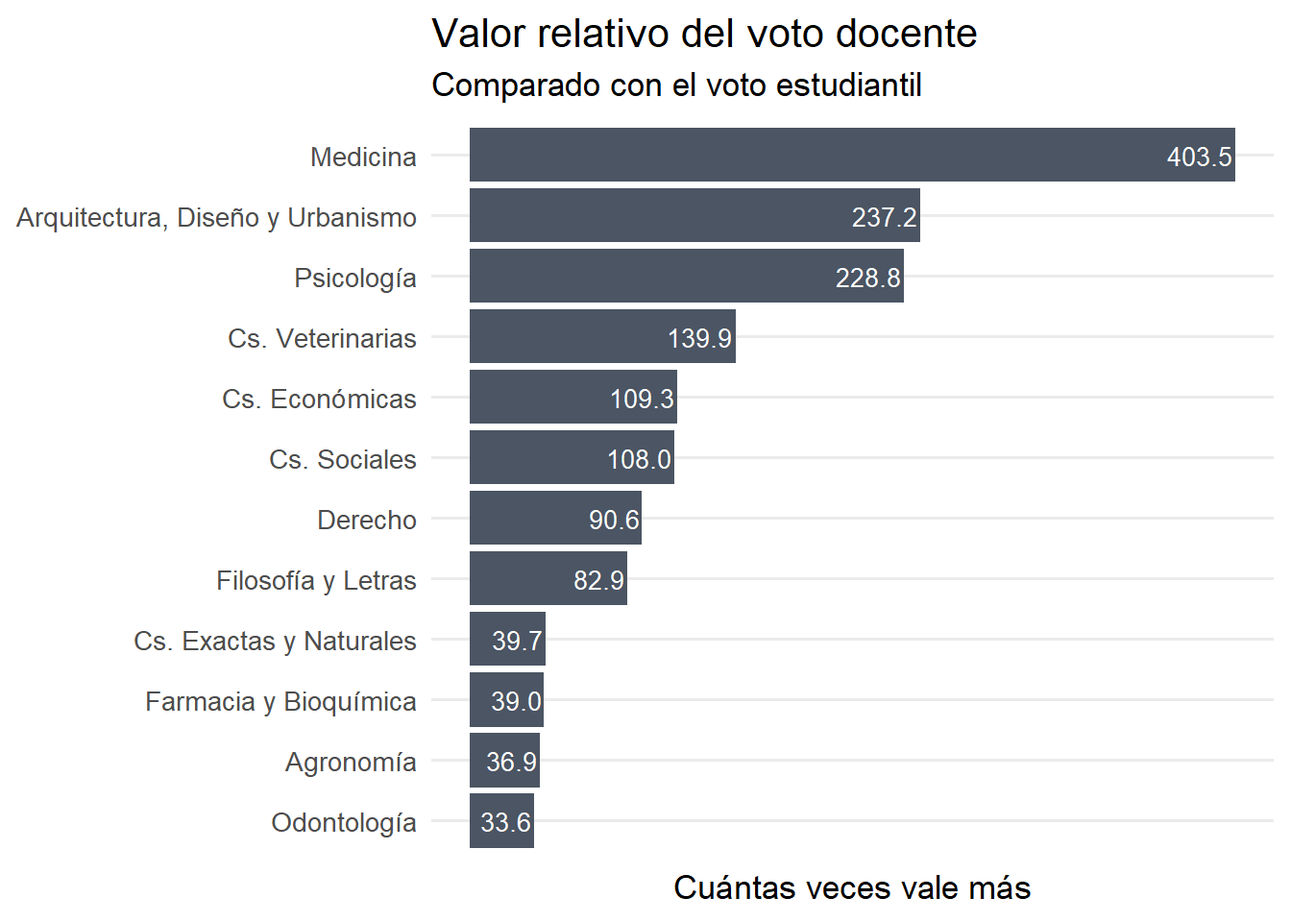
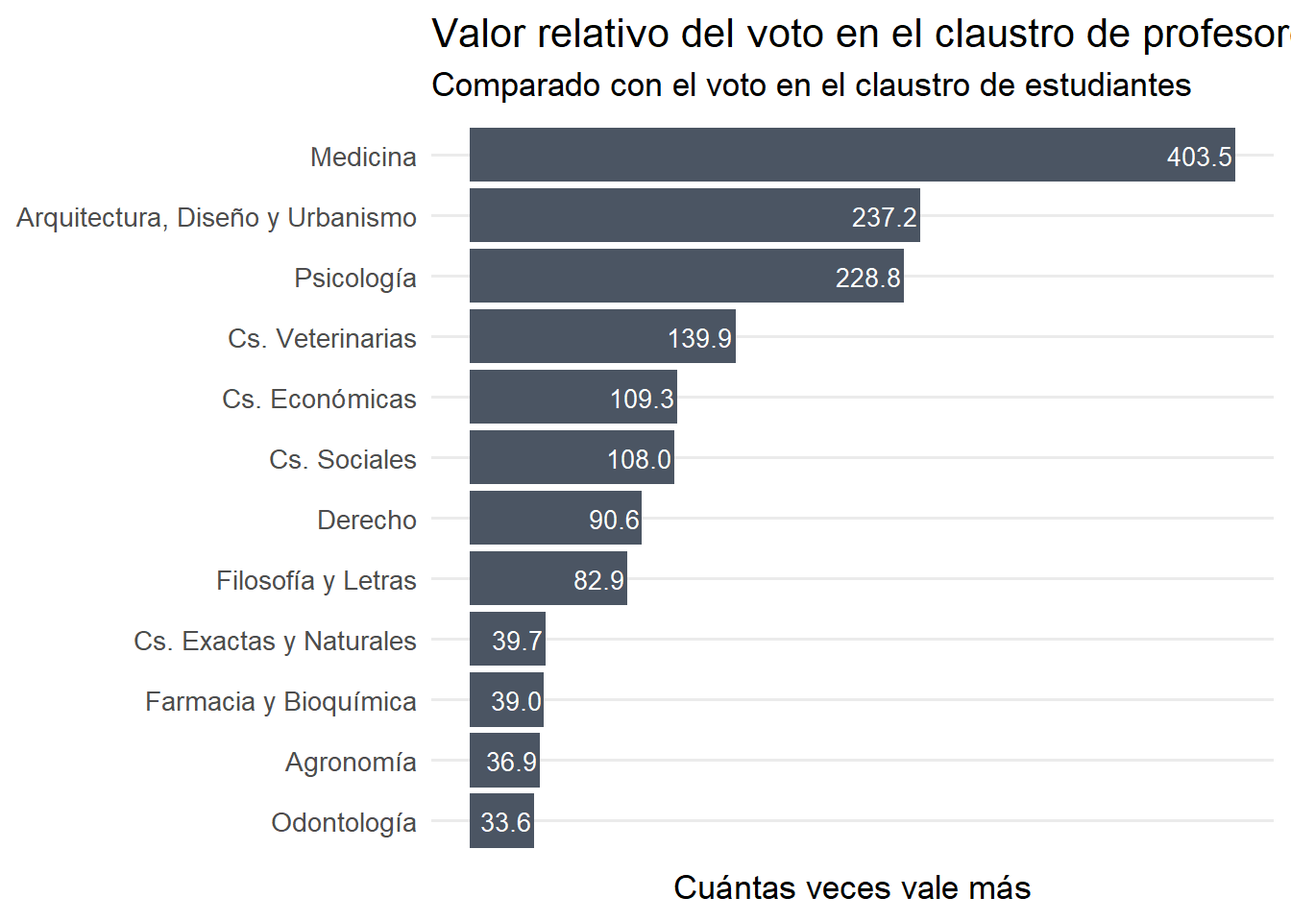
correccion de textos

Changed region(s): [[0.625, 0.0, 1.0, 0.125]]

diff --git a/docs/bitacora/20260116-uba-electoral/index.html b/docs/bitacora/20260116-uba-electoral/index.html
@@ -237,7 +237,7 @@ window.Quarto = {
 <section id="los-datos" class="level2">
 <h2 class="anchored" data-anchor-id="los-datos">Los datos</h2>
 <p>Este informe presenta un análisis exploratorio de los resultados electorales en las distintas facultades de la Universidad de Buenos Aires sucedidos en los últimos 15 años.</p>
-<p>Los datos, inaccesibles en la práctica, fueron obtenidos mediante solicitudes de acceso a la información pública que disponibilizaron una serie de impresiones escaneadas. Obligados por el estado de las fuentes, cada facultad presenta distintos niveles de cobertura sobre sus propios comicios. Para las últimas 4 elecciones se cubrieron los huecos con información disponible en internet de libre acceso.</p>
+<p>Los datos, inaccesibles en la práctica, fueron obtenidos mediante solicitudes de acceso a la información pública que disponibilizaron una serie de impresiones escaneadas. Debido al estado de las fuentes, cada facultad presenta distintos niveles de cobertura sobre sus propios comicios. Para las últimas 4 elecciones se cubrieron los huecos con información disponible en los pocos medios que prestaron cobertura y con las redes sociales de distintas agrupaciones universitarias.</p>
 <div class="uba-cards">
   <div class="card">
     <div class="card-number">13</div>
@@ -251,11 +251,15 @@ window.Quarto = {
     <div class="card-number">418</div>
     <div class="card-label">Listas</div>
   </div>
+  <div class="card">
+    <div class="card-number">1.143043\times 10^{6}</div>
+    <div class="card-label">Votos</div>
+  </div>
 </div>
 </section>
 <section id="quiénes-votan" class="level2">
 <h2 class="anchored" data-anchor-id="quiénes-votan">¿Quiénes votan?</h2>
-<p>Todas las facultades votan, pero no en todas vota la misma cantidad de gente. Un dato que no por conocido no deja de ser interesante. Para el claustro de estudiantes, clara predominancia de la facultad de Medicina.</p>
+<p>Todas las facultades votan, pero no en todas vota la misma cantidad de gente. Un dato que no por conocido deja de ser interesante. Para el claustro de estudiantes existe una clara predominancia de la facultad de Medicina.</p>
 <div class="cell">
 <div class="cell-output-display">
 <div>
@@ -265,7 +269,7 @@ window.Quarto = {
 </div>
 </div>
 </div>
-<p>En el claustro de graduados, aparecen Económicas, Sociales y Derecho acompañando a Medicina en el podio.</p>
+<p>En el claustro de graduados, aparecen Económicas, Sociales y Derecho acompañando a Medicina entre los primeros puestos.</p>
 <div class="cell">
 <div class="cell-output-display">
 <div>
@@ -275,7 +279,7 @@ window.Quarto = {
 </div>
 </div>
 </div>
-<p>El claustro de profesores vuelve a presentar un cambio. Económicas obtiene el primer lugar y aparecen las facultades de Ingeniería y Exactas que no presentaban números considerables en los otros dos claustros. Medicina relegado a un 5 puesto.</p>
+<p>El claustro de profesores muestra un cambio llamativo. Económicas obtiene el primer lugar y aparecen las facultades de Ingeniería y Exactas que no presentaban números considerables en los otros dos claustros. Medicina relegado a un 5° puesto.</p>
 <div class="cell">
 <div class="cell-output-display">
 <div>
@@ -291,11 +295,11 @@ window.Quarto = {
 <p>La cantidad de listas es una buena proxy de cuán disputada está una elección. Algunas facultades concentran la competencia; en otras, directamente no hay demasiado para elegir.</p>
 <div class="cell">
 <div class="cell-output-display">
-<div class="plotly html-widget html-fill-item" id="htmlwidget-63e4331c7a4d4183028e" style="width:100%;height:464px;"></div>
-<script type="application/json" data-for="htmlwidget-63e4331c7a4d4183028e">{"x":{"data":[{"x":[2015,2017,2019,2022,2024],"y":[5,5,4,4,4],"text":["Facultad: Agronomía<br>Año: 2015<br>Listas: 5","Facultad: Agronomía<br>Año: 2017<br>Listas: 5","Facultad: Agronomía<br>Año: 2019<br>Listas: 4","Facultad: Agronomía<br>Año: 2022<br>Listas: 4","Facultad: Agronomía<br>Año: 2024<br>Listas: 4"],"type":"scatter","mode":"lines+markers","line":{"width":1.5118110236220474,"color":"rgba(248,118,109,0.7)","dash":"solid"},"hoveron":"points","name":"Agronomía","legendgroup":"Agronomía","showlegend":true,"xaxis":"x","yaxis":"y","hoverinfo":"text","marker":{"autocolorscale":false,"color":"rgba(248,118,109,1)","opacity":1,"size":5.6692913385826778,"symbol":"circle","line":{"width":1.8897637795275593,"color":"rgba(248,118,109,1)"}},"frame":null},{"x":[2011,2013,2015,2017,2019,2022,2024],"y":[6,9,7,7,6,8,6],"text":["Facultad: Arquitectura, Diseño y Urbanismo<br>Año: 2011<br>Listas: 6","Facultad: Arquitectura, Diseño y Urbanismo<br>Año: 2013<br>Listas: 9","Facultad: Arquitectura, Diseño y Urbanismo<br>Año: 2015<br>Listas: 7","Facultad: Arquitectura, Diseño y Urbanismo<br>Año: 2017<br>Listas: 7","Facultad: Arquitectura, Diseño y Urbanismo<br>Año: 2019<br>Listas: 6","Facultad: Arquitectura, Diseño y Urbanismo<br>Año: 2022<br>Listas: 8","Facultad: Arquitectura, Diseño y Urbanismo<br>Año: 2024<br>Listas: 6"],"type":"scatter","mode":"lines+markers","line":{"width":1.5118110236220474,"color":"rgba(225,138,0,0.7)","dash":"solid"},"hoveron":"points","name":"Arquitectura, Diseño y Urbanismo","legendgroup":"Arquitectura, Diseño y Urbanismo","showlegend":true,"xaxis":"x","yaxis":"y","hoverinfo":"text","marker":{"autocolorscale":false,"color":"rgba(225,138,0,1)","opacity":1,"size":5.6692913385826778,"symbol":"circle","line":{"width":1.8897637795275593,"color":"rgba(225,138,0,1)"}},"frame":null},{"x":[2011,2013,2015,2017,2019,2022,2024],"y":[13,15,15,14,15,16,16],"text":["Facultad: Cs. Económicas<br>Año: 2011<br>Listas: 13","Facultad: Cs. Económicas<br>Año: 2013<br>Listas: 15","Facultad: Cs. Económicas<br>Año: 2015<br>Listas: 15","Facultad: Cs. Económicas<br>Año: 2017<br>Listas: 14","Facultad: Cs. Económicas<br>Año: 2019<br>Listas: 15","Facultad: Cs. Económicas<br>Año: 2022<br>Listas: 16","Facultad: Cs. Económicas<br>Año: 2024<br>Listas: 16"],"type":"scatter","mode":"lines+markers","line":{"width":1.5118110236220474,"color":"rgba(190,156,0,0.7)","dash":"solid"},"hoveron":"points","name":"Cs. Económicas","legendgroup":"Cs. Económicas","showlegend":true,"xaxis":"x","yaxis":"y","hoverinfo":"text","marker":{"autocolorscale":false,"color":"rgba(190,156,0,1)","opacity":1,"size":5.6692913385826778,"symbol":"circle","line":{"width":1.8897637795275593,"color":"rgba(190,156,0,1)"}},"frame":null},{"x":[2015,2017,2019,2022,2024],"y":[6,5,5,4,9],"text":["Facultad: Cs. Exactas y Naturales<br>Año: 2015<br>Listas: 6","Facultad: Cs. Exactas y Naturales<br>Año: 2017<br>Listas: 5","Facultad: Cs. Exactas y Naturales<br>Año: 2019<br>Listas: 5","Facultad: Cs. Exactas y Naturales<br>Año: 2022<br>Listas: 4","Facultad: Cs. Exactas y Naturales<br>Año: 2024<br>Listas: 9"],"type":"scatter","mode":"lines+markers","line":{"width":1.5118110236220474,"color":"rgba(140,171,0,0.7)","dash":"solid"},"hoveron":"points","name":"Cs. Exactas y Naturales","legendgroup":"Cs. Exactas y Naturales","showlegend":true,"xaxis":"x","yaxis":"y","hoverinfo":"text","marker":{"autocolorscale":false,"color":"rgba(140,171,0,1)","opacity":1,"size":5.6692913385826778,"symbol":"circle","line":{"width":1.8897637795275593,"color":"rgba(140,171,0,1)"}},"frame":null},{"x":[2011,2013,2015,2017,2019,2022,2024],"y":[11,9,7,7,7,6,6],"text":["Facultad: Cs. Sociales<br>Año: 2011<br>Listas: 11","Facultad: Cs. Sociales<br>Año: 2013<br>Listas: 9","Facultad: Cs. Sociales<br>Año: 2015<br>Listas: 7","Facultad: Cs. Sociales<br>Año: 2017<br>Listas: 7","Facultad: Cs. Sociales<br>Año: 2019<br>Listas: 7","Facultad: Cs. Sociales<br>Año: 2022<br>Listas: 6","Facultad: Cs. Sociales<br>Año: 2024<br>Listas: 6"],"type":"scatter","mode":"lines+markers","line":{"width":1.5118110236220474,"color":"rgba(36,183,0,0.7)","dash":"solid"},"hoveron":"points","name":"Cs. Sociales","legendgroup":"Cs. Sociales","showlegend":true,"xaxis":"x","yaxis":"y","hoverinfo":"text","marker":{"autocolorscale":false,"color":"rgba(36,183,0,1)","opacity":1,"size":5.6692913385826778,"symbol":"circle","line":{"width":1.8897637795275593,"color":"rgba(36,183,0,1)"}},"frame":null},{"x":[2011,2013,2015,2017,2019,2022,2024],"y":[3,3,3,6,5,6,4],"text":["Facultad: Cs. Veterinarias<br>Año: 2011<br>Listas: 3","Facultad: Cs. Veterinarias<br>Año: 2013<br>Listas: 3","Facultad: Cs. Veterinarias<br>Año: 2015<br>Listas: 3","Facultad: Cs. Veterinarias<br>Año: 2017<br>Listas: 6","Facultad: Cs. Veterinarias<br>Año: 2019<br>Listas: 5","Facultad: Cs. Veterinarias<br>Año: 2022<br>Listas: 6","Facultad: Cs. Veterinarias<br>Año: 2024<br>Listas: 4"],"type":"scatter","mode":"lines+markers","line":{"width":1.5118110236220474,"color":"rgba(0,190,112,0.7)","dash":"solid"},"hoveron":"points","name":"Cs. Veterinarias","legendgroup":"Cs. Veterinarias","showlegend":true,"xaxis":"x","yaxis":"y","hoverinfo":"text","marker":{"autocolorscale":false,"color":"rgba(0,190,112,1)","opacity":1,"size":5.6692913385826778,"symbol":"circle","line":{"width":1.8897637795275593,"color":"rgba(0,190,112,1)"}},"frame":null},{"x":[2011,2013,2015,2017,2019,2022,2024],"y":[9,7,7,7,8,8,7],"text":["Facultad: Derecho<br>Año: 2011<br>Listas: 9","Facultad: Derecho<br>Año: 2013<br>Listas: 7","Facultad: Derecho<br>Año: 2015<br>Listas: 7","Facultad: Derecho<br>Año: 2017<br>Listas: 7","Facultad: Derecho<br>Año: 2019<br>Listas: 8","Facultad: Derecho<br>Año: 2022<br>Listas: 8","Facultad: Derecho<br>Año: 2024<br>Listas: 7"],"type":"scatter","mode":"lines+markers","line":{"width":1.5118110236220474,"color":"rgba(0,193,171,0.7)","dash":"solid"},"hoveron":"points","name":"Derecho","legendgroup":"Derecho","showlegend":true,"xaxis":"x","yaxis":"y","hoverinfo":"text","marker":{"autocolorscale":false,"color":"rgba(0,193,171,1)","opacity":1,"size":5.6692913385826778,"symbol":"circle","line":{"width":1.8897637795275593,"color":"rgba(0,193,171,1)"}},"frame":null},{"x":[2011,2013,2015,2017,2019,2022,2024],"y":[3,5,6,3,5,4,4],"text":["Facultad: Farmacia y Bioquímica<br>Año: 2011<br>Listas: 3","Facultad: Farmacia y Bioquímica<br>Año: 2013<br>Listas: 5","Facultad: Farmacia y Bioquímica<br>Año: 2015<br>Listas: 6","Facultad: Farmacia y Bioquímica<br>Año: 2017<br>Listas: 3","Facultad: Farmacia y Bioquímica<br>Año: 2019<br>Listas: 5","Facultad: Farmacia y Bioquímica<br>Año: 2022<br>Listas: 4","Facultad: Farmacia y Bioquímica<br>Año: 2024<br>Listas: 4"],"type":"scatter","mode":"lines+markers","line":{"width":1.5118110236220474,"color":"rgba(0,187,218,0.7)","dash":"solid"},"hoveron":"points","name":"Farmacia y Bioquímica","legendgroup":"Farmacia y Bioquímica","showlegend":true,"xaxis":"x","yaxis":"y","hoverinfo":"text","marker":{"autocolorscale":false,"color":"rgba(0,187,218,1)","opacity":1,"size":5.6692913385826778,"symbol":"circle","line":{"width":1.8897637795275593,"color":"rgba(0,187,218,1)"}},"frame":null},{"x":[2011,2015,2017,2019,2022,2024],"y":[8,8,9,7,8,7],"text":["Facultad: Filosofía y Letras<br>Año: 2011<br>Listas: 8","Facultad: Filosofía y Letras<br>Año: 2015<br>Listas: 8","Facultad: Filosofía y Letras<br>Año: 2017<br>Listas: 9","Facultad: Filosofía y Letras<br>Año: 2019<br>Listas: 7","Facultad: Filosofía y Letras<br>Año: 2022<br>Listas: 8","Facultad: Filosofía y Letras<br>Año: 2024<br>Listas: 7"],"type":"scatter","mode":"lines+markers","line":{"width":1.5118110236220474,"color":"rgba(0,172,252,0.7)","dash":"solid"},"hoveron":"points","name":"Filosofía y Letras","legendgroup":"Filosofía y Letras","showlegend":true,"xaxis":"x","yaxis":"y","hoverinfo":"text","marker":{"autocolorscale":false,"color":"rgba(0,172,252,1)","opacity":1,"size":5.6692913385826778,"symbol":"circle","line":{"width":1.8897637795275593,"color":"rgba(0,172,252,1)"}},"frame":null},{"x":[2015,2017,2019,2022,2024],"y":[6,7,7,7,6],"text":["Facultad: Ingeniería<br>Año: 2015<br>Listas: 6","Facultad: Ingeniería<br>Año: 2017<br>Listas: 7","Facultad: Ingeniería<br>Año: 2019<br>Listas: 7","Facultad: Ingeniería<br>Año: 2022<br>Listas: 7","Facultad: Ingeniería<br>Año: 2024<br>Listas: 6"],"type":"scatter","mode":"lines+markers","line":{"width":1.5118110236220474,"color":"rgba(139,147,255,0.7)","dash":"solid"},"hoveron":"points","name":"Ingeniería","legendgroup":"Ingeniería","showlegend":true,"xaxis":"x","yaxis":"y","hoverinfo":"text","marker":{"autocolorscale":false,"color":"rgba(139,147,255,1)","opacity":1,"size":5.6692913385826778,"symbol":"circle","line":{"width":1.8897637795275593,"color":"rgba(139,147,255,1)"}},"frame":null},{"x":[2015,2017,2019,2022,2024],"y":[8,8,7,8,8],"text":["Facultad: Medicina<br>Año: 2015<br>Listas: 8","Facultad: Medicina<br>Año: 2017<br>Listas: 8","Facultad: Medicina<br>Año: 2019<br>Listas: 7","Facultad: Medicina<br>Año: 2022<br>Listas: 8","Facultad: Medicina<br>Año: 2024<br>Listas: 8"],"type":"scatter","mode":"lines+markers","line":{"width":1.5118110236220474,"color":"rgba(213,117,254,0.7)","dash":"solid"},"hoveron":"points","name":"Medicina","legendgroup":"Medicina","showlegend":true,"xaxis":"x","yaxis":"y","hoverinfo":"text","marker":{"autocolorscale":false,"color":"rgba(213,117,254,1)","opacity":1,"size":5.6692913385826778,"symbol":"circle","line":{"width":1.8897637795275593,"color":"rgba(213,117,254,1)"}},"frame":null},{"x":[2011,2013,2015,2017,2019,2022,2024],"y":[3,5,4,4,2,2,2],"text":["Facultad: Odontología<br>Año: 2011<br>Listas: 3","Facultad: Odontología<br>Año: 2013<br>Listas: 5","Facultad: Odontología<br>Año: 2015<br>Listas: 4","Facultad: Odontología<br>Año: 2017<br>Listas: 4","Facultad: Odontología<br>Año: 2019<br>Listas: 2","Facultad: Odontología<br>Año: 2022<br>Listas: 2","Facultad: Odontología<br>Año: 2024<br>Listas: 2"],"type":"scatter","mode":"lines+markers","line":{"width":1.5118110236220474,"color":"rgba(249,98,221,0.7)","dash":"solid"},"hoveron":"points","name":"Odontología","legendgroup":"Odontología","showlegend":true,"xaxis":"x","yaxis":"y","hoverinfo":"text","marker":{"autocolorscale":false,"color":"rgba(249,98,221,1)","opacity":1,"size":5.6692913385826778,"symbol":"circle","line":{"width":1.8897637795275593,"color":"rgba(249,98,221,1)"}},"frame":null},{"x":[2011,2013,2015,2017,2019,2022,2024],"y":[9,6,6,7,6,6,8],"text":["Facultad: Psicología<br>Año: 2011<br>Listas: 9","Facultad: Psicología<br>Año: 2013<br>Listas: 6","Facultad: Psicología<br>Año: 2015<br>Listas: 6","Facultad: Psicología<br>Año: 2017<br>Listas: 7","Facultad: Psicología<br>Año: 2019<br>Listas: 6","Facultad: Psicología<br>Año: 2022<br>Listas: 6","Facultad: Psicología<br>Año: 2024<br>Listas: 8"],"type":"scatter","mode":"lines+markers","line":{"width":1.5118110236220474,"color":"rgba(255,101,172,0.7)","dash":"solid"},"hoveron":"points","name":"Psicología","legendgroup":"Psicología","showlegend":true,"xaxis":"x","yaxis":"y","hoverinfo":"text","marker":{"autocolorscale":false,"color":"rgba(255,101,172,1)","opacity":1,"size":5.6692913385826778,"symbol":"circle","line":{"width":1.8897637795275593,"color":"rgba(255,101,172,1)"}},"frame":null}],"layout":{"margin":{"t":80,"r":8.6342880863428828,"b":30.220008302200085,"l":44.034869240348698},"font":{"color":"rgba(0,0,0,1)","family":"","size":17.268576172685762},"xaxis":{"domain":[0,1],"automargin":true,"type":"linear","autorange":false,"range":[2010.3499999999999,2024.6500000000001],"tickmode":"linear","ticktext":["2015","2020"],"tickvals":[2015,2020],"categoryorder":"array","categoryarray":["2015","2020"],"nticks":null,"ticks":"","tickcolor":null,"ticklen":4.3171440431714405,"tickwidth":0,"showticklabels":true,"tickfont":{"color":"rgba(77,77,77,1)","family":"","size":13.814860938148611},"tickangle":-0,"showline":false,"linecolor":null,"linewidth":0,"showgrid":true,"gridcolor":"rgba(235,235,235,1)","gridwidth":0.78493528057662576,"zeroline":false,"anchor":"y","title":{"text":"","font":{"color":"rgba(0,0,0,1)","family":"","size":17.268576172685762}},"hoverformat":".2f","dtick":1},"yaxis":{"domain":[0,1],"automargin":true,"type":"linear","autorange":false,"range":[0,17],"tickmode":"linear","ticktext":["4","8","12","16"],"tickvals":[4,8,12,16],"categoryorder":"array","categoryarray":["4","8","12","16"],"nticks":null,"ticks":"","tickcolor":null,"ticklen":4.3171440431714414,"tickwidth":0,"showticklabels":true,"tickfont":{"color":"rgba(77,77,77,1)","family":"","size":13.814860938148611},"tickangle":-0,"showline":false,"linecolor":null,"linewidth":0,"showgrid":true,"gridcolor":"rgba(235,235,235,1)","gridwidth":0.78493528057662576,"zeroline":false,"anchor":"x","title":{"text":"Cantidad de listas","font":{"color":"rgba(0,0,0,1)","family":"","size":17.268576172685762}},"hoverformat":".2f","dtick":1},"shapes":[{"type":"rect","fillcolor":null,"line":{"color":null,"width":0,"linetype":[]},"yref":"paper","xref":"paper","layer":"below","x0":0,"x1":1,"y0":0,"y1":1}],"showlegend":false,"legend":{"bgcolor":null,"bordercolor":null,"borderwidth":0,"font":{"color":"rgba(0,0,0,1)","family":"","size":13.814860938148611}},"hovermode":"closest","barmode":"relative","title":{"text":"Cantidad de listas por año por facultad<br><sup>Claustro de estudiantes<\/sup>"}},"config":{"doubleClick":"reset","modeBarButtonsToAdd":["hoverclosest","hovercompare"],"showSendToCloud":false,"displayModeBar":true,"displaylogo":false,"modeBarButtonsToRemove":["zoom2d","pan2d","select2d","lasso2d","zoomIn2d","zoomOut2d","autoScale2d","resetScale2d"]},"source":"A","attrs":{"86f86c477152":{"x":{},"y":{},"colour":{},"text":{},"type":"scatter"},"86f828bf187b":{"x":{},"y":{},"colour":{},"text":{}}},"cur_data":"86f86c477152","visdat":{"86f86c477152":["function (y) ","x"],"86f828bf187b":["function (y) ","x"]},"highlight":{"on":"plotly_click","persistent":false,"dynamic":false,"selectize":false,"opacityDim":0.20000000000000001,"selected":{"opacity":1},"debounce":0},"shinyEvents":["plotly_hover","plotly_click","plotly_selected","plotly_relayout","plotly_brushed","plotly_brushing","plotly_clickannotation","plotly_doubleclick","plotly_deselect","plotly_afterplot","plotly_sunburstclick"],"base_url":"https://plot.ly"},"evals":[],"jsHooks":[]}</script>
+<div class="plotly html-widget html-fill-item" id="htmlwidget-9891effced8ea0a29928" style="width:100%;height:464px;"></div>
+<script type="application/json" data-for="htmlwidget-9891effced8ea0a29928">{"x":{"data":[{"x":[2015,2017,2019,2022,2024],"y":[5,5,4,4,4],"text":["Facultad: Agronomía<br>Año: 2015<br>Listas: 5","Facultad: Agronomía<br>Año: 2017<br>Listas: 5","Facultad: Agronomía<br>Año: 2019<br>Listas: 4","Facultad: Agronomía<br>Año: 2022<br>Listas: 4","Facultad: Agronomía<br>Año: 2024<br>Listas: 4"],"type":"scatter","mode":"lines+markers","line":{"width":1.5118110236220474,"color":"rgba(248,118,109,0.6)","dash":"solid"},"hoveron":"points","name":"Agronomía","legendgroup":"Agronomía","showlegend":true,"xaxis":"x","yaxis":"y","hoverinfo":"text","marker":{"autocolorscale":false,"color":"rgba(248,118,109,1)","opacity":1,"size":5.6692913385826778,"symbol":"circle","line":{"width":1.8897637795275593,"color":"rgba(248,118,109,1)"}},"frame":null},{"x":[2011,2013,2015,2017,2019,2022,2024],"y":[6,9,7,7,6,8,6],"text":["Facultad: Arquitectura, Diseño y Urbanismo<br>Año: 2011<br>Listas: 6","Facultad: Arquitectura, Diseño y Urbanismo<br>Año: 2013<br>Listas: 9","Facultad: Arquitectura, Diseño y Urbanismo<br>Año: 2015<br>Listas: 7","Facultad: Arquitectura, Diseño y Urbanismo<br>Año: 2017<br>Listas: 7","Facultad: Arquitectura, Diseño y Urbanismo<br>Año: 2019<br>Listas: 6","Facultad: Arquitectura, Diseño y Urbanismo<br>Año: 2022<br>Listas: 8","Facultad: Arquitectura, Diseño y Urbanismo<br>Año: 2024<br>Listas: 6"],"type":"scatter","mode":"lines+markers","line":{"width":1.5118110236220474,"color":"rgba(225,138,0,0.6)","dash":"solid"},"hoveron":"points","name":"Arquitectura, Diseño y Urbanismo","legendgroup":"Arquitectura, Diseño y Urbanismo","showlegend":true,"xaxis":"x","yaxis":"y","hoverinfo":"text","marker":{"autocolorscale":false,"color":"rgba(225,138,0,1)","opacity":1,"size":5.6692913385826778,"symbol":"circle","line":{"width":1.8897637795275593,"color":"rgba(225,138,0,1)"}},"frame":null},{"x":[2011,2013,2015,2017,2019,2022,2024],"y":[13,15,15,14,15,16,16],"text":["Facultad: Cs. Económicas<br>Año: 2011<br>Listas: 13","Facultad: Cs. Económicas<br>Año: 2013<br>Listas: 15","Facultad: Cs. Económicas<br>Año: 2015<br>Listas: 15","Facultad: Cs. Económicas<br>Año: 2017<br>Listas: 14","Facultad: Cs. Económicas<br>Año: 2019<br>Listas: 15","Facultad: Cs. Económicas<br>Año: 2022<br>Listas: 16","Facultad: Cs. Económicas<br>Año: 2024<br>Listas: 16"],"type":"scatter","mode":"lines+markers","line":{"width":1.5118110236220474,"color":"rgba(190,156,0,0.6)","dash":"solid"},"hoveron":"points","name":"Cs. Económicas","legendgroup":"Cs. Económicas","showlegend":true,"xaxis":"x","yaxis":"y","hoverinfo":"text","marker":{"autocolorscale":false,"color":"rgba(190,156,0,1)","opacity":1,"size":5.6692913385826778,"symbol":"circle","line":{"width":1.8897637795275593,"color":"rgba(190,156,0,1)"}},"frame":null},{"x":[2015,2017,2019,2022,2024],"y":[6,5,5,4,9],"text":["Facultad: Cs. Exactas y Naturales<br>Año: 2015<br>Listas: 6","Facultad: Cs. Exactas y Naturales<br>Año: 2017<br>Listas: 5","Facultad: Cs. Exactas y Naturales<br>Año: 2019<br>Listas: 5","Facultad: Cs. Exactas y Naturales<br>Año: 2022<br>Listas: 4","Facultad: Cs. Exactas y Naturales<br>Año: 2024<br>Listas: 9"],"type":"scatter","mode":"lines+markers","line":{"width":1.5118110236220474,"color":"rgba(140,171,0,0.6)","dash":"solid"},"hoveron":"points","name":"Cs. Exactas y Naturales","legendgroup":"Cs. Exactas y Naturales","showlegend":true,"xaxis":"x","yaxis":"y","hoverinfo":"text","marker":{"autocolorscale":false,"color":"rgba(140,171,0,1)","opacity":1,"size":5.6692913385826778,"symbol":"circle","line":{"width":1.8897637795275593,"color":"rgba(140,171,0,1)"}},"frame":null},{"x":[2011,2013,2015,2017,2019,2022,2024],"y":[11,9,7,7,7,6,6],"text":["Facultad: Cs. Sociales<br>Año: 2011<br>Listas: 11","Facultad: Cs. Sociales<br>Año: 2013<br>Listas: 9","Facultad: Cs. Sociales<br>Año: 2015<br>Listas: 7","Facultad: Cs. Sociales<br>Año: 2017<br>Listas: 7","Facultad: Cs. Sociales<br>Año: 2019<br>Listas: 7","Facultad: Cs. Sociales<br>Año: 2022<br>Listas: 6","Facultad: Cs. Sociales<br>Año: 2024<br>Listas: 6"],"type":"scatter","mode":"lines+markers","line":{"width":1.5118110236220474,"color":"rgba(36,183,0,0.6)","dash":"solid"},"hoveron":"points","name":"Cs. Sociales","legendgroup":"Cs. Sociales","showlegend":true,"xaxis":"x","yaxis":"y","hoverinfo":"text","marker":{"autocolorscale":false,"color":"rgba(36,183,0,1)","opacity":1,"size":5.6692913385826778,"symbol":"circle","line":{"width":1.8897637795275593,"color":"rgba(36,183,0,1)"}},"frame":null},{"x":[2011,2013,2015,2017,2019,2022,2024],"y":[3,3,3,6,5,6,4],"text":["Facultad: Cs. Veterinarias<br>Año: 2011<br>Listas: 3","Facultad: Cs. Veterinarias<br>Año: 2013<br>Listas: 3","Facultad: Cs. Veterinarias<br>Año: 2015<br>Listas: 3","Facultad: Cs. Veterinarias<br>Año: 2017<br>Listas: 6","Facultad: Cs. Veterinarias<br>Año: 2019<br>Listas: 5","Facultad: Cs. Veterinarias<br>Año: 2022<br>Listas: 6","Facultad: Cs. Veterinarias<br>Año: 2024<br>Listas: 4"],"type":"scatter","mode":"lines+markers","line":{"width":1.5118110236220474,"color":"rgba(0,190,112,0.6)","dash":"solid"},"hoveron":"points","name":"Cs. Veterinarias","legendgroup":"Cs. Veterinarias","showlegend":true,"xaxis":"x","yaxis":"y","hoverinfo":"text","marker":{"autocolorscale":false,"color":"rgba(0,190,112,1)","opacity":1,"size":5.6692913385826778,"symbol":"circle","line":{"width":1.8897637795275593,"color":"rgba(0,190,112,1)"}},"frame":null},{"x":[2011,2013,2015,2017,2019,2022,2024],"y":[9,7,7,7,8,8,7],"text":["Facultad: Derecho<br>Año: 2011<br>Listas: 9","Facultad: Derecho<br>Año: 2013<br>Listas: 7","Facultad: Derecho<br>Año: 2015<br>Listas: 7","Facultad: Derecho<br>Año: 2017<br>Listas: 7","Facultad: Derecho<br>Año: 2019<br>Listas: 8","Facultad: Derecho<br>Año: 2022<br>Listas: 8","Facultad: Derecho<br>Año: 2024<br>Listas: 7"],"type":"scatter","mode":"lines+markers","line":{"width":1.5118110236220474,"color":"rgba(0,193,171,0.6)","dash":"solid"},"hoveron":"points","name":"Derecho","legendgroup":"Derecho","showlegend":true,"xaxis":"x","yaxis":"y","hoverinfo":"text","marker":{"autocolorscale":false,"color":"rgba(0,193,171,1)","opacity":1,"size":5.6692913385826778,"symbol":"circle","line":{"width":1.8897637795275593,"color":"rgba(0,193,171,1)"}},"frame":null},{"x":[2011,2013,2015,2017,2019,2022,2024],"y":[3,5,6,3,5,4,4],"text":["Facultad: Farmacia y Bioquímica<br>Año: 2011<br>Listas: 3","Facultad: Farmacia y Bioquímica<br>Año: 2013<br>Listas: 5","Facultad: Farmacia y Bioquímica<br>Año: 2015<br>Listas: 6","Facultad: Farmacia y Bioquímica<br>Año: 2017<br>Listas: 3","Facultad: Farmacia y Bioquímica<br>Año: 2019<br>Listas: 5","Facultad: Farmacia y Bioquímica<br>Año: 2022<br>Listas: 4","Facultad: Farmacia y Bioquímica<br>Año: 2024<br>Listas: 4"],"type":"scatter","mode":"lines+markers","line":{"width":1.5118110236220474,"color":"rgba(0,187,218,0.6)","dash":"solid"},"hoveron":"points","name":"Farmacia y Bioquímica","legendgroup":"Farmacia y Bioquímica","showlegend":true,"xaxis":"x","yaxis":"y","hoverinfo":"text","marker":{"autocolorscale":false,"color":"rgba(0,187,218,1)","opacity":1,"size":5.6692913385826778,"symbol":"circle","line":{"width":1.8897637795275593,"color":"rgba(0,187,218,1)"}},"frame":null},{"x":[2011,2015,2017,2019,2022,2024],"y":[8,8,9,7,8,7],"text":["Facultad: Filosofía y Letras<br>Año: 2011<br>Listas: 8","Facultad: Filosofía y Letras<br>Año: 2015<br>Listas: 8","Facultad: Filosofía y Letras<br>Año: 2017<br>Listas: 9","Facultad: Filosofía y Letras<br>Año: 2019<br>Listas: 7","Facultad: Filosofía y Letras<br>Año: 2022<br>Listas: 8","Facultad: Filosofía y Letras<br>Año: 2024<br>Listas: 7"],"type":"scatter","mode":"lines+markers","line":{"width":1.5118110236220474,"color":"rgba(0,172,252,0.6)","dash":"solid"},"hoveron":"points","name":"Filosofía y Letras","legendgroup":"Filosofía y Letras","showlegend":true,"xaxis":"x","yaxis":"y","hoverinfo":"text","marker":{"autocolorscale":false,"color":"rgba(0,172,252,1)","opacity":1,"size":5.6692913385826778,"symbol":"circle","line":{"width":1.8897637795275593,"color":"rgba(0,172,252,1)"}},"frame":null},{"x":[2015,2017,2019,2022,2024],"y":[6,7,7,7,6],"text":["Facultad: Ingeniería<br>Año: 2015<br>Listas: 6","Facultad: Ingeniería<br>Año: 2017<br>Listas: 7","Facultad: Ingeniería<br>Año: 2019<br>Listas: 7","Facultad: Ingeniería<br>Año: 2022<br>Listas: 7","Facultad: Ingeniería<br>Año: 2024<br>Listas: 6"],"type":"scatter","mode":"lines+markers","line":{"width":1.5118110236220474,"color":"rgba(139,147,255,0.6)","dash":"solid"},"hoveron":"points","name":"Ingeniería","legendgroup":"Ingeniería","showlegend":true,"xaxis":"x","yaxis":"y","hoverinfo":"text","marker":{"autocolorscale":false,"color":"rgba(139,147,255,1)","opacity":1,"size":5.6692913385826778,"symbol":"circle","line":{"width":1.8897637795275593,"color":"rgba(139,147,255,1)"}},"frame":null},{"x":[2015,2017,2019,2022,2024],"y":[8,8,7,8,8],"text":["Facultad: Medicina<br>Año: 2015<br>Listas: 8","Facultad: Medicina<br>Año: 2017<br>Listas: 8","Facultad: Medicina<br>Año: 2019<br>Listas: 7","Facultad: Medicina<br>Año: 2022<br>Listas: 8","Facultad: Medicina<br>Año: 2024<br>Listas: 8"],"type":"scatter","mode":"lines+markers","line":{"width":1.5118110236220474,"color":"rgba(213,117,254,0.6)","dash":"solid"},"hoveron":"points","name":"Medicina","legendgroup":"Medicina","showlegend":true,"xaxis":"x","yaxis":"y","hoverinfo":"text","marker":{"autocolorscale":false,"color":"rgba(213,117,254,1)","opacity":1,"size":5.6692913385826778,"symbol":"circle","line":{"width":1.8897637795275593,"color":"rgba(213,117,254,1)"}},"frame":null},{"x":[2011,2013,2015,2017,2019,2022,2024],"y":[3,5,4,4,2,2,2],"text":["Facultad: Odontología<br>Año: 2011<br>Listas: 3","Facultad: Odontología<br>Año: 2013<br>Listas: 5","Facultad: Odontología<br>Año: 2015<br>Listas: 4","Facultad: Odontología<br>Año: 2017<br>Listas: 4","Facultad: Odontología<br>Año: 2019<br>Listas: 2","Facultad: Odontología<br>Año: 2022<br>Listas: 2","Facultad: Odontología<br>Año: 2024<br>Listas: 2"],"type":"scatter","mode":"lines+markers","line":{"width":1.5118110236220474,"color":"rgba(249,98,221,0.6)","dash":"solid"},"hoveron":"points","name":"Odontología","legendgroup":"Odontología","showlegend":true,"xaxis":"x","yaxis":"y","hoverinfo":"text","marker":{"autocolorscale":false,"color":"rgba(249,98,221,1)","opacity":1,"size":5.6692913385826778,"symbol":"circle","line":{"width":1.8897637795275593,"color":"rgba(249,98,221,1)"}},"frame":null},{"x":[2011,2013,2015,2017,2019,2022,2024],"y":[9,6,6,7,6,6,8],"text":["Facultad: Psicología<br>Año: 2011<br>Listas: 9","Facultad: Psicología<br>Año: 2013<br>Listas: 6","Facultad: Psicología<br>Año: 2015<br>Listas: 6","Facultad: Psicología<br>Año: 2017<br>Listas: 7","Facultad: Psicología<br>Año: 2019<br>Listas: 6","Facultad: Psicología<br>Año: 2022<br>Listas: 6","Facultad: Psicología<br>Año: 2024<br>Listas: 8"],"type":"scatter","mode":"lines+markers","line":{"width":1.5118110236220474,"color":"rgba(255,101,172,0.6)","dash":"solid"},"hoveron":"points","name":"Psicología","legendgroup":"Psicología","showlegend":true,"xaxis":"x","yaxis":"y","hoverinfo":"text","marker":{"autocolorscale":false,"color":"rgba(255,101,172,1)","opacity":1,"size":5.6692913385826778,"symbol":"circle","line":{"width":1.8897637795275593,"color":"rgba(255,101,172,1)"}},"frame":null},{"x":[2011,2013,2015,2017,2019,2022,2024],"y":[7.2222222222222223,7.375,6.7692307692307692,6.8461538461538458,6.4615384615384617,6.6923076923076925,6.6923076923076925],"text":["Promedio general<br>Año: 2011<br>Listas promedio: 7.22","Promedio general<br>Año: 2013<br>Listas promedio: 7.38","Promedio general<br>Año: 2015<br>Listas promedio: 6.77","Promedio general<br>Año: 2017<br>Listas promedio: 6.85","Promedio general<br>Año: 2019<br>Listas promedio: 6.46","Promedio general<br>Año: 2022<br>Listas promedio: 6.69","Promedio general<br>Año: 2024<br>Listas promedio: 6.69"],"type":"scatter","mode":"lines","line":{"width":3.0236220472440949,"color":"rgba(0,0,0,0.9)","dash":"solid"},"hoveron":"points","showlegend":false,"xaxis":"x","yaxis":"y","hoverinfo":"text","frame":null}],"layout":{"margin":{"t":80,"r":8.6342880863428828,"b":30.220008302200085,"l":44.034869240348698},"font":{"color":"rgba(0,0,0,1)","family":"","size":17.268576172685762},"xaxis":{"domain":[0,1],"automargin":true,"type":"linear","autorange":false,"range":[2010.3499999999999,2024.6500000000001],"tickmode":"linear","ticktext":["2015","2020"],"tickvals":[2015,2020],"categoryorder":"array","categoryarray":["2015","2020"],"nticks":null,"ticks":"","tickcolor":null,"ticklen":4.3171440431714405,"tickwidth":0,"showticklabels":true,"tickfont":{"color":"rgba(77,77,77,1)","family":"","size":13.814860938148611},"tickangle":-0,"showline":false,"linecolor":null,"linewidth":0,"showgrid":true,"gridcolor":"rgba(235,235,235,1)","gridwidth":0.78493528057662576,"zeroline":false,"anchor":"y","title":{"text":"","font":{"color":"rgba(0,0,0,1)","family":"","size":17.268576172685762}},"hoverformat":".2f","dtick":1},"yaxis":{"domain":[0,1],"automargin":true,"type":"linear","autorange":false,"range":[0,17],"tickmode":"linear","ticktext":["4","8","12","16"],"tickvals":[4,8,12,16],"categoryorder":"array","categoryarray":["4","8","12","16"],"nticks":null,"ticks":"","tickcolor":null,"ticklen":4.3171440431714414,"tickwidth":0,"showticklabels":true,"tickfont":{"color":"rgba(77,77,77,1)","family":"","size":13.814860938148611},"tickangle":-0,"showline":false,"linecolor":null,"linewidth":0,"showgrid":true,"gridcolor":"rgba(235,235,235,1)","gridwidth":0.78493528057662576,"zeroline":false,"anchor":"x","title":{"text":"Cantidad de listas","font":{"color":"rgba(0,0,0,1)","family":"","size":17.268576172685762}},"hoverformat":".2f","dtick":1},"shapes":[{"type":"rect","fillcolor":null,"line":{"color":null,"width":0,"linetype":[]},"yref":"paper","xref":"paper","layer":"below","x0":0,"x1":1,"y0":0,"y1":1}],"showlegend":false,"legend":{"bgcolor":null,"bordercolor":null,"borderwidth":0,"font":{"color":"rgba(0,0,0,1)","family":"","size":13.814860938148611}},"hovermode":"closest","barmode":"relative","title":{"text":"Cantidad de listas por año por facultad<br><sup>Claustro de estudiantes<\/sup>"}},"config":{"doubleClick":"reset","modeBarButtonsToAdd":["hoverclosest","hovercompare"],"showSendToCloud":false,"displayModeBar":true,"displaylogo":false,"modeBarButtonsToRemove":["zoom2d","pan2d","select2d","lasso2d","zoomIn2d","zoomOut2d","autoScale2d","resetScale2d"]},"source":"A","attrs":{"3324a7a6696":{"x":{},"y":{},"colour":{},"text":{},"type":"scatter"},"332475dc54ea":{"x":{},"y":{},"colour":{},"text":{}},"33246a0b48f5":{"x":{},"y":{},"colour":{},"text":{}}},"cur_data":"3324a7a6696","visdat":{"3324a7a6696":["function (y) ","x"],"332475dc54ea":["function (y) ","x"],"33246a0b48f5":["function (y) ","x"]},"highlight":{"on":"plotly_click","persistent":false,"dynamic":false,"selectize":false,"opacityDim":0.20000000000000001,"selected":{"opacity":1},"debounce":0},"shinyEvents":["plotly_hover","plotly_click","plotly_selected","plotly_relayout","plotly_brushed","plotly_brushing","plotly_clickannotation","plotly_doubleclick","plotly_deselect","plotly_afterplot","plotly_sunburstclick"],"base_url":"https://plot.ly"},"evals":[],"jsHooks":[]}</script>
 </div>
 </div>
-<p>Más listas no necesariamente implican elecciones competitivas. Este gráfico cruza cantidad de listas con margen de victoria para ver dónde la elección estuvo realmente abierta… y dónde no tanto. Odontología y Económicas se llevan el podio de los márgenes más grandes: Odontología con muy pocas listas, Económicas con muchas.</p>
+<p>No siempre la cantidad de listas implica elecciones más competitivas. Este gráfico cruza cantidad de listas con el margen de victoria (la diferencia entre las primeras dos listas) para ver dónde la elección estuvo realmente abierta… y dónde no tanto. Odontología y Económicas se llevan el podio de los márgenes más grandes: Odontología con muy pocas listas, Económicas con muchas.</p>
 <div class="cell">
 <div class="cell-output-display">
 <div>
@@ -318,7 +322,7 @@ window.Quarto = {
 </section>
 <section id="la-participación-entre-graduados" class="level2">
 <h2 class="anchored" data-anchor-id="la-participación-entre-graduados">La participación entre graduados</h2>
-<p>El espacio de graduados, ¿jóvenes profesionales o docentes sin medalla? Odontología tiene casi la misma cantidad de graduados que de estudiantes votando, una anomalía absoluta. Farmacia y Bioquímica y Sociales lideran el ranking con un promedio de votos de graduados equivalentes casi a un 30% de votos de estudiantes.</p>
+<p>Graduados, ¿profesionales que participan de la comunidad o docentes sin papeles? Odontología tiene casi la misma cantidad de graduados que de estudiantes votando, una anomalía absoluta. Farmacia y Bioquímica y Sociales lideran el ranking con un promedio de votos de graduados equivalentes casi a un 30% de votos de estudiantes.</p>
 <div class="cell">
 <div class="cell-output-display">
 <div>
@@ -331,7 +335,7 @@ window.Quarto = {
 </section>
 <section id="la-jerarquía-de-los-profesores" class="level2">
 <h2 class="anchored" data-anchor-id="la-jerarquía-de-los-profesores">La jerarquía de los profesores</h2>
-<p>Aunque estudiantes votan mucho más, el reparto de bancas introduce otra lógica. Este indicador estima cuántas veces “vale” un voto docente respecto a uno estudiantil. Medicina y Odontología son caras opuestas del predominio docente en las decisiones políticas de la facultad.</p>
+<p>El voto de los profesores se ve fortalecido por dos movimientos paralelos: por un lado, eligen ocho asientos, el doble que los otros dos claustros. Por otro, su padrón es muchísimo menor que el de los otros claustros. Este indicador estima cuánto vale un voto en el claustro de profesores respecto a uno en el de estudiantes. Medicina y Odontología son caras opuestas del impacto del voto del claustro de profesores en las decisiones políticas de la facultad.</p>
 <div class="cell">
 <div class="cell-output-display">
 <div>
@@ -341,7 +345,7 @@ window.Quarto = {
 </div>
 </div>
 </div>
-<p>La relación entre el peso del voto docente y el estudiantil se calcula como:</p>
+<p>La relación entre el peso del voto de los profesores y el de los estudiantes se calcula como:</p>
 <p><span class="math display">\[
 \text{Valor relativo} =
 \frac{\frac{Bancas_{prof}}{Votos_{prof}}}{\frac{Bancas_{est}}{Votos_{est}}}

diff --git a/docs/bitacora.html b/docs/bitacora.html
@@ -239,7 +239,7 @@ window.Quarto = {
     </div>
 </div>
 <div class="list quarto-listing-default">
-<div class="quarto-post image-right" data-index="0" data-categories="proyectos,electoral" data-listing-date-sort="1768532400000" data-listing-file-modified-sort="1768620560366" data-listing-date-modified-sort="NaN" data-listing-reading-time-sort="13" data-listing-word-count-sort="2585">
+<div class="quarto-post image-right" data-index="0" data-categories="proyectos,electoral" data-listing-date-sort="1768532400000" data-listing-file-modified-sort="1768659038201" data-listing-date-modified-sort="NaN" data-listing-reading-time-sort="14" data-listing-word-count-sort="2775">
 <div class="body">
 <h3 class="no-anchor listing-title">
 <a href="./bitacora/20260116-uba-electoral/index.html" class="no-external">Elecciones en la Universidad de Buenos Aires</a>
